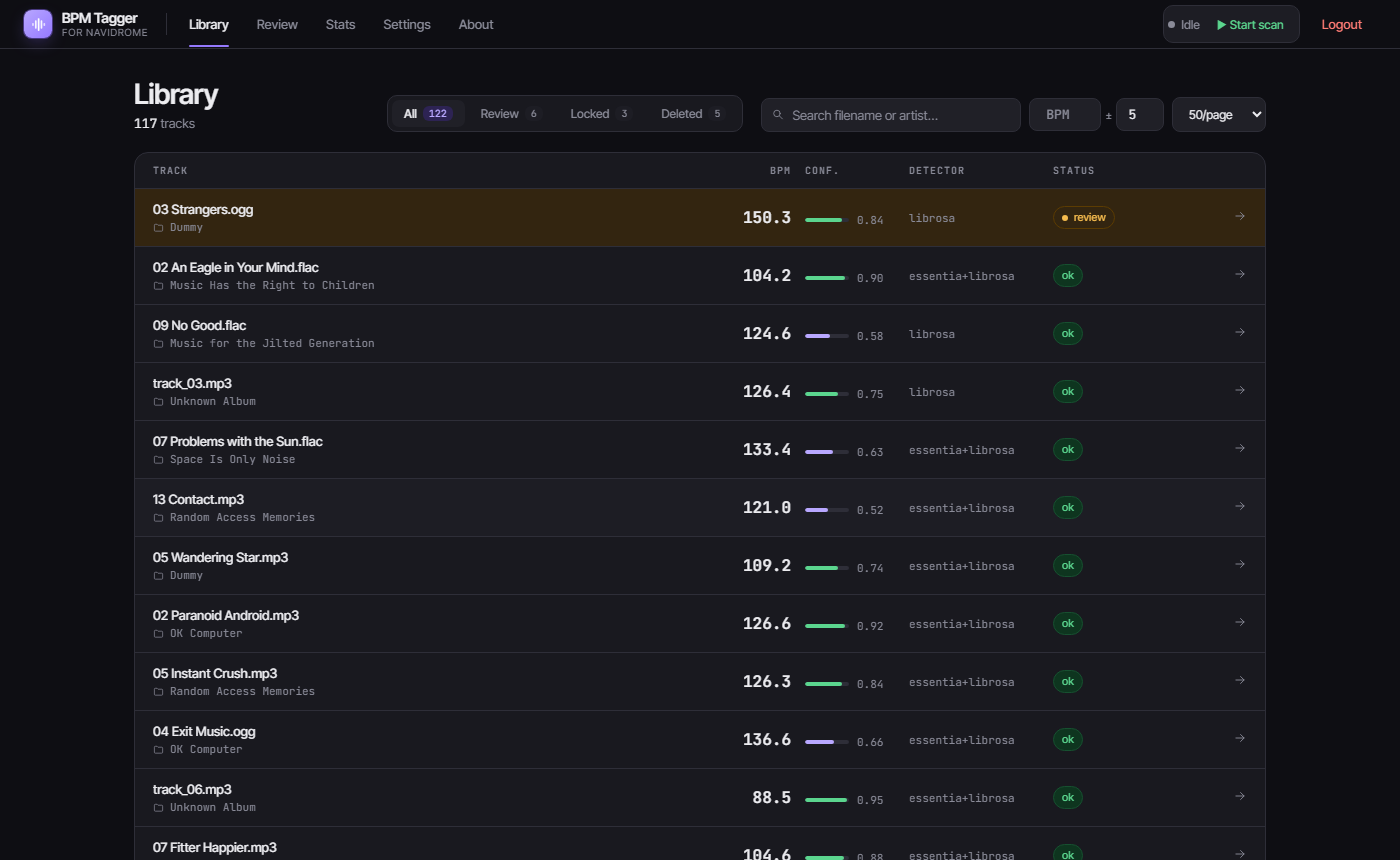
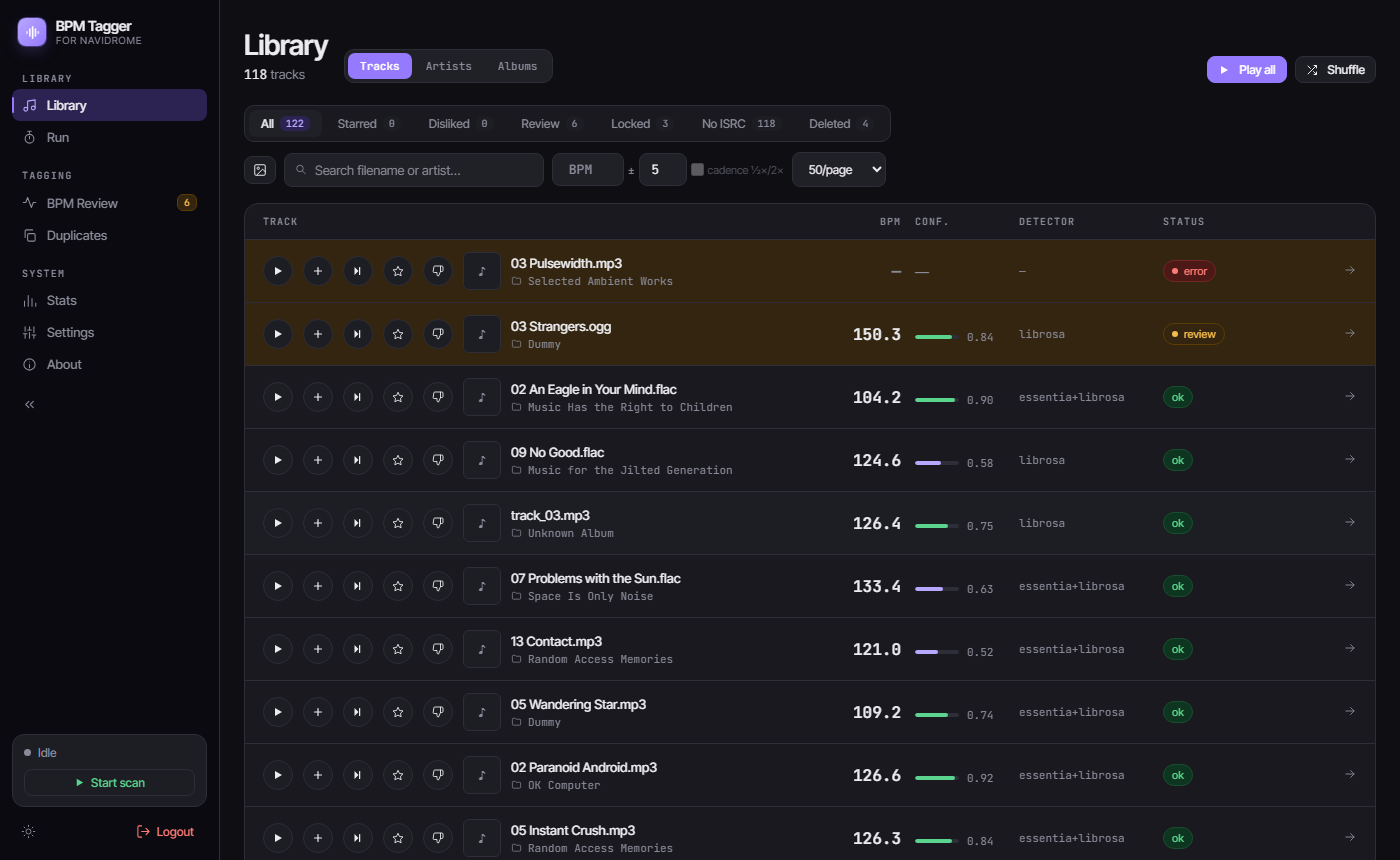
Docs: refresh UI screenshots, add mobile and player-mode shots
Retook every screenshot against the current React frontend (the old
ones predated recent Run-mode changes like the player brand banner and
mobile transport layout). Adds mobile library and player-mode
(desktop + mobile) shots, and drops the stale "screenshots are
outdated" note from the README.

diff --git a/README.md b/README.md
@@ -17,8 +17,6 @@ Automatically detects the BPM of every song in your [Navidrome](https://www.navi
 
 **Now with an optional Spotify grabber:** watch your own Spotify playlists, compare them against what's already on disk, and automatically download the tracks you're missing — via **Deezer** (your own ARL) with a **yt-dlp** fallback — transcoding to one configured format, writing full tags + cover art, running the same three-detector BPM analysis, and filing them into your library by a customizable path template. Ambiguous matches wait in an inbox and ping you over [ntfy](https://ntfy.sh/).
 
-> The web UI is now a **React single-page app** (migrated from the original server-rendered pages); Docker serves the pre-built bundle automatically. Screenshots below show the earlier UI and will be refreshed.
-
 ## Screenshots
 
 | Login | Library |
@@ -33,9 +31,15 @@ Automatically detects the BPM of every song in your [Navidrome](https://www.navi
 |---|---|
 | ![Stats](docs/screenshots/06-stats.png) | ![Settings](docs/screenshots/07-settings.png) |
 
-| About | |
+| About | Library (mobile) |
 |---|---|
-| ![About](docs/screenshots/08-about.png) | |
+| ![About](docs/screenshots/08-about.png) | ![Library on mobile](docs/screenshots/09-mobile-library.png) |
+
+Same sign-in screen gates both the full admin UI and the locked-down **player mode** (`RUN_PASSWORD` / Settings → Player Access) — the difference shows up after login, in what the session can reach:
+
+| Player mode | Player mode (mobile) |
+|---|---|
+| ![Player mode Run page](docs/screenshots/11-player-desktop.png) | ![Player mode on mobile, one-screen layout](docs/screenshots/12-player-mobile.png) |
 
 ## Features
 
